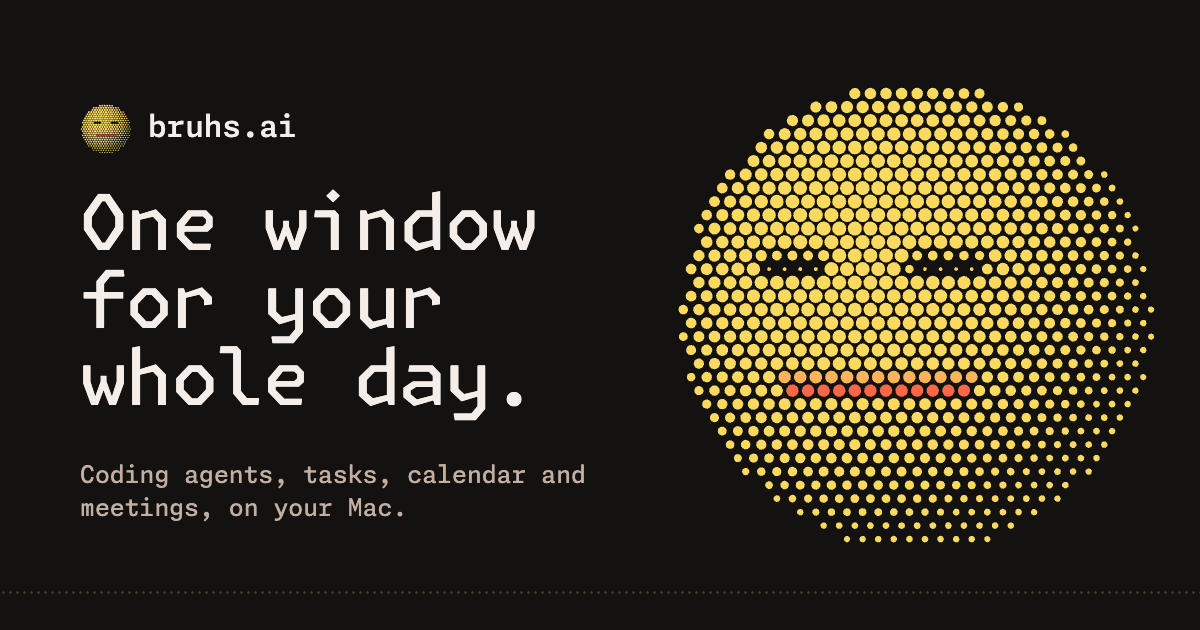
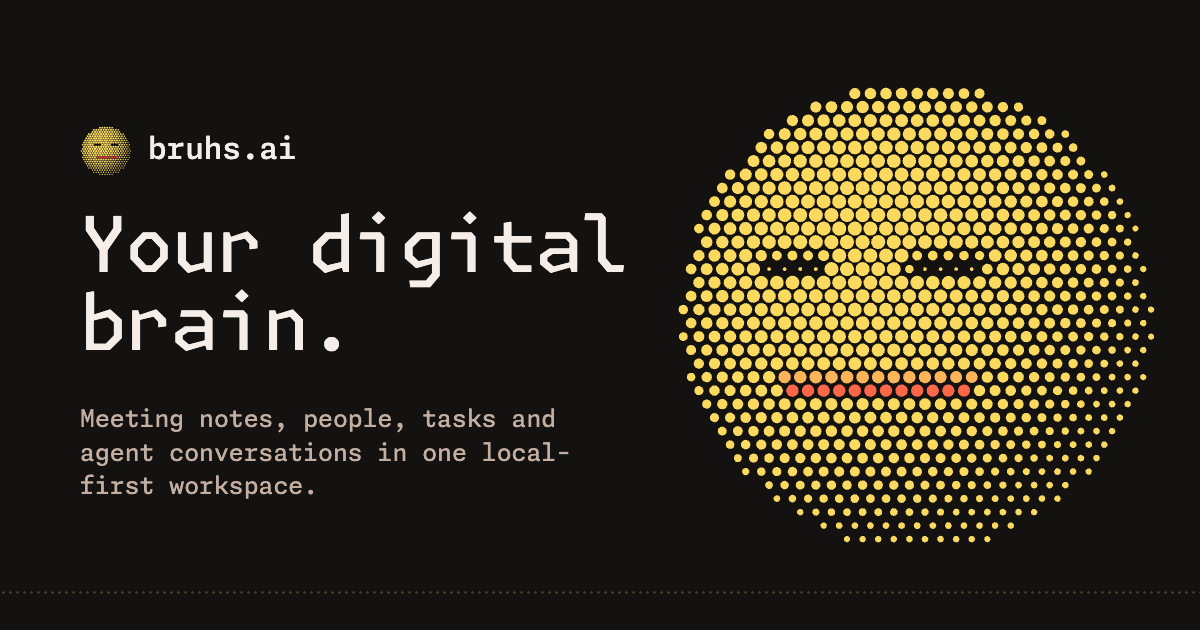
Present bruhs as a local-first digital brain

Changed region(s): [[0.0617, 0.3016, 0.5242, 0.8444], [0.0617, 0.1508, 0.2467, 0.2714]]

diff --git a/bruhs-site/src/styles/site.css b/bruhs-site/src/styles/site.css
@@ -459,3 +459,49 @@ dialog.palette-dialog .palette-item[aria-selected="true"] { background: var(--lo
   *, *::before, *::after { animation: none !important; transition: none !important; scroll-behavior: auto !important; }
   .window.revealing { mask-image: none; }
 }
+
+.memory-hero, .recall {
+  display: grid;
+  grid-template-columns: minmax(0, 1.1fr) minmax(0, 1fr);
+  align-items: center;
+  gap: clamp(2rem, 8vw, 7rem);
+}
+.memory-hero { padding-block: clamp(1rem, 4vw, 4rem); }
+.hero-copy { display: grid; justify-items: start; gap: 24px; }
+.hero-copy .get-row { justify-content: flex-start; }
+.field-note {
+  margin: 0;
+  padding: clamp(1.25rem, 3.5vw, 3rem);
+  color: var(--longan-950);
+  background: var(--rambutan-200);
+  border-top: 5px solid var(--persimmon-400);
+}
+.field-note figcaption { font: 500 .82rem/1.4 var(--argon); }
+.field-note blockquote {
+  margin: 1.4rem 0;
+  font: 500 clamp(1.15rem, 2vw, 1.65rem)/1.45 var(--xenon);
+}
+.field-note dl, .shortcuts { margin: 0; }
+.field-note dl div, .shortcuts div {
+  display: flex;
+  align-items: baseline;
+  justify-content: space-between;
+  gap: 1rem;
+  padding-block: .55rem;
+  font-size: .85rem;
+}
+.field-note dl div { border-top: 1px dotted var(--longan-300); }
+.field-note dd, .shortcuts dd { margin: 0; text-align: end; }
+.tour-intro { max-width: 64ch; text-align: center; margin-bottom: 32px; }
+.tour-intro p, .recall p { color: var(--rambutan-400); }
+.shortcuts { max-width: 38ch; }
+.shortcuts div { border-bottom: 1px dotted var(--longan-700); }
+.shortcuts kbd { white-space: nowrap; font-family: var(--argon); }
+.concept { border-inline-start: 2px solid var(--durian-300); padding-inline-start: 1.5rem; }
+.concept h3 { color: var(--durian-300); }
+.concept p { margin-bottom: 0; }
+@media (max-width: 760px) {
+  .memory-hero, .recall { grid-template-columns: minmax(0, 1fr); }
+  .memory-hero { padding-block: .75rem; }
+  .tour-intro { text-align: start; }
+}

diff --git a/bruhs-site/src/scripts/site.js b/bruhs-site/src/scripts/site.js
@@ -302,8 +302,9 @@ function go(command) {
   }
   const section = document.getElementById(id);
   if (!section) return;
+  if (section instanceof HTMLDetailsElement) section.open = true;
   section.scrollIntoView({ block: "start" });
-  const focusTarget = section.querySelector("h2");
+  const focusTarget = section.querySelector("h2, summary");
   if (focusTarget instanceof HTMLElement) focusTarget.focus({ preventScroll: true });
 }
 
@@ -683,7 +684,7 @@ for (const button of document.querySelectorAll("button[data-share]")) {
   let reset = 0;
   button.addEventListener("click", async () => {
     if (button.getAttribute("aria-disabled") === "true") return;
-    const link = { title: "bruhs", text: "bruhs, one window for your whole day. Download it on your desktop.", url: "https://bruhs.ai/download" };
+    const link = { title: "bruhs", text: "bruhs, your local-first digital brain. Download it on your desktop.", url: "https://bruhs.ai/download" };
     clearTimeout(reset);
     if (label) label.textContent = text;
     if (status) status.textContent = "";

diff --git a/bruhs-site/brand/og.html b/bruhs-site/brand/og.html
@@ -17,8 +17,8 @@
 <div class="card">
   <div class="copy">
     <div class="brand"><img src="/public/logo.svg" alt="">bruhs.ai</div>
-    <h1>One window for your whole day.</h1>
-    <p>Coding agents, tasks, calendar and meetings, on your Mac.</p>
+    <h1>Your digital brain.</h1>
+    <p>Meeting notes, people, tasks and agent conversations in one local-first workspace.</p>
   </div>
   <canvas id="bruh"></canvas>
   <div class="rule"></div>

diff --git a/PERSONAL-SUITE.md b/PERSONAL-SUITE.md
@@ -2,6 +2,14 @@
 
 Product decisions recorded November 19, 2026. The milestones below are open. Verify each milestone on web and desktop, including accessibility, persistence, and privacy.
 
+## Ideas for recalling work
+
+The goal is for bruhs to be your digital brain. Today already brings meeting decisions and follow-ups into view. These concepts explore how you might find the same context weeks later.
+
+- **3D memory viewer.** Start at a meeting and explore the people who attended, the decisions recorded there, and the tasks linked to it. Select a connection to see why it exists and open its source. A keyboard-accessible list could show the same relationships.
+- **Decision history.** From a project, follow a decision from the original meeting through later notes that revised it. Each entry would open the passage that explains what changed.
+- **Catch me up.** Before meeting someone again, pull up the last conversation, outstanding promises and related notes. Each reminder would link back to the record it came from.
+
 ## Where each workflow belongs
 
 | User intent | Owner and experience |

diff --git a/README.md b/README.md
@@ -1,8 +1,11 @@
 # bruhs
 
-A local-first, keyboard-native agent for your whole day. Agent conversations,
-tasks, calendar, meetings, people, notes, money and health share one
-window, and your data stays on your machine.
+bruhs is your local-first digital brain. Capture a thought while you work,
+search a transcript for the decision you remember, or open Today to see
+who needs a follow-up. Your notes, people, tasks, calendar and agent
+conversations share one keyboard-native workspace.
+
+See the [product ideas](PERSONAL-SUITE.md#ideas-for-recalling-work) for proposed ways to explore that history.
 
 bruhs runs on macOS as a native app (GPUI) and in the browser (a Leptos WASM
 app served by a local Rust server). Agents run through Claude Code, Codex,
